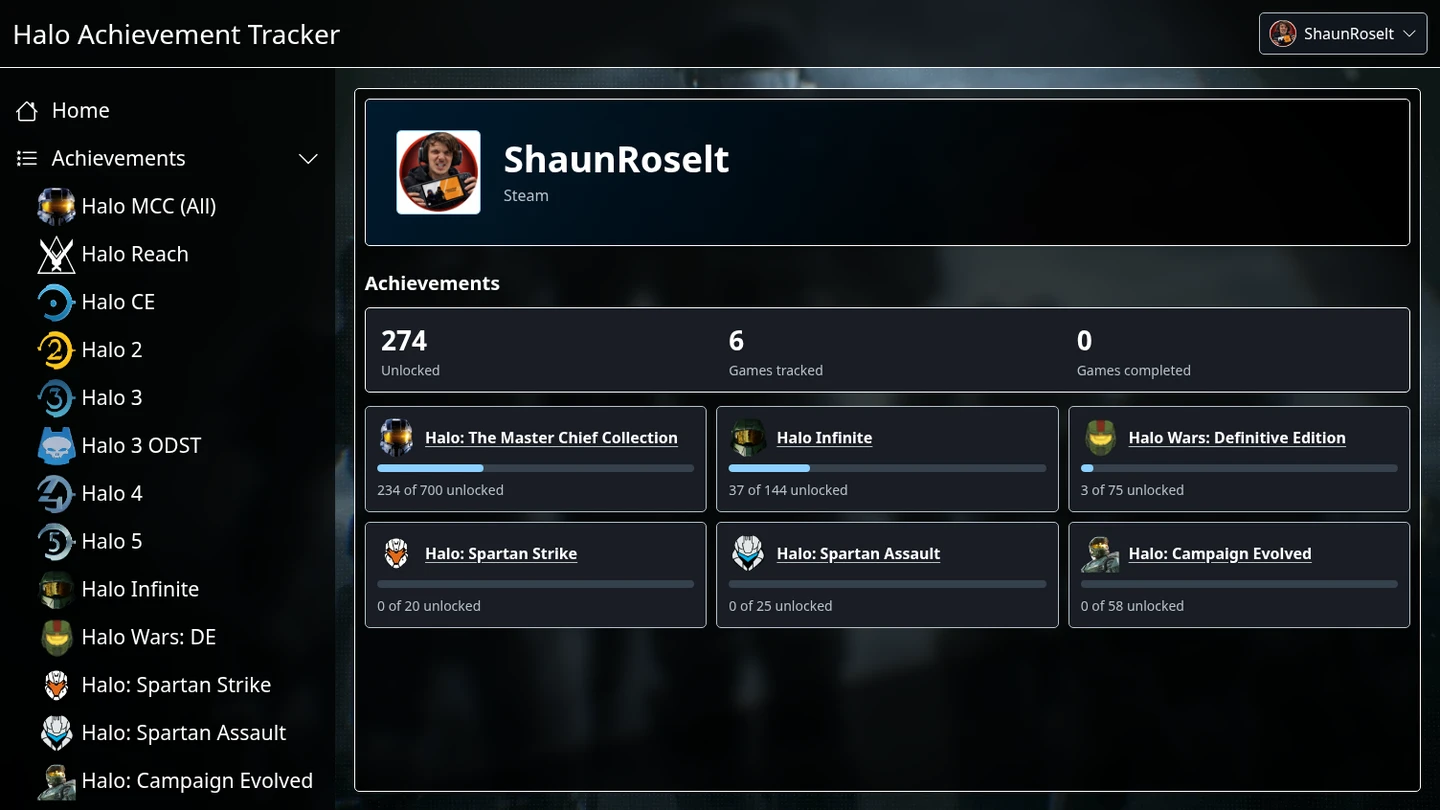
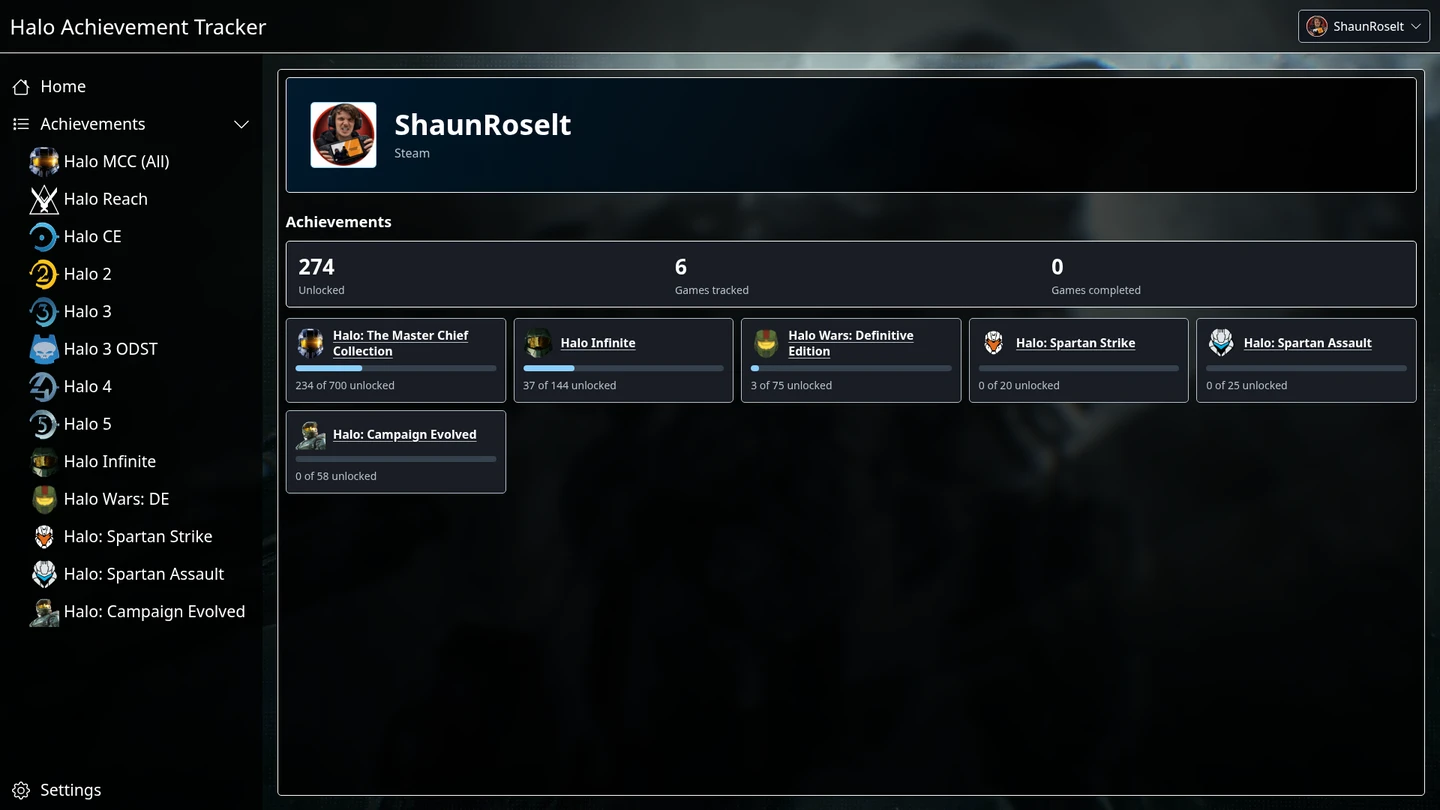
Refine 1.4.0 release notes and match screenshot framing

diff --git a/Website/index.html b/Website/index.html
@@ -295,12 +295,7 @@
             <ul>
               <li>Added Player Search to the header with automatic Steam ID and Xbox Gamertag detection</li>
               <li>Added Steam Achievement Progress and an Unlock Status filter for supported games</li>
-              <li>Added Player Profiles with profile pictures, unlock totals, completed games, and progress by game</li>
-              <li>Added a Profile menu with Profile and Sign Out</li>
-              <li>Player Search now keeps you on the current page</li>
-              <li>Added icons to the Profile and Unlock Status menus and improved dropdown placement</li>
-              <li>Matched the Home and Profile borders to the Achievement pages</li>
-              <li>Xbox Achievement Progress requires a provider connection</li>
+              <li>Added Player Profile</li>
             </ul>
           </div>
         </details>

diff --git a/RELEASE_NOTES.md b/RELEASE_NOTES.md
@@ -132,9 +132,4 @@ This is the first version of the website. The first version is quite basic and b
 
 - Added Player Search to the header with automatic Steam ID and Xbox Gamertag detection
 - Added Steam Achievement Progress and an Unlock Status filter for supported games
-- Added Player Profiles with profile pictures, unlock totals, completed games, and progress by game
-- Added a Profile menu with Profile and Sign Out
-- Player Search now keeps you on the current page
-- Added icons to the Profile and Unlock Status menus and improved dropdown placement
-- Matched the Home and Profile borders to the Achievement pages
-- Xbox Achievement Progress requires a provider connection
+- Added Player Profile
